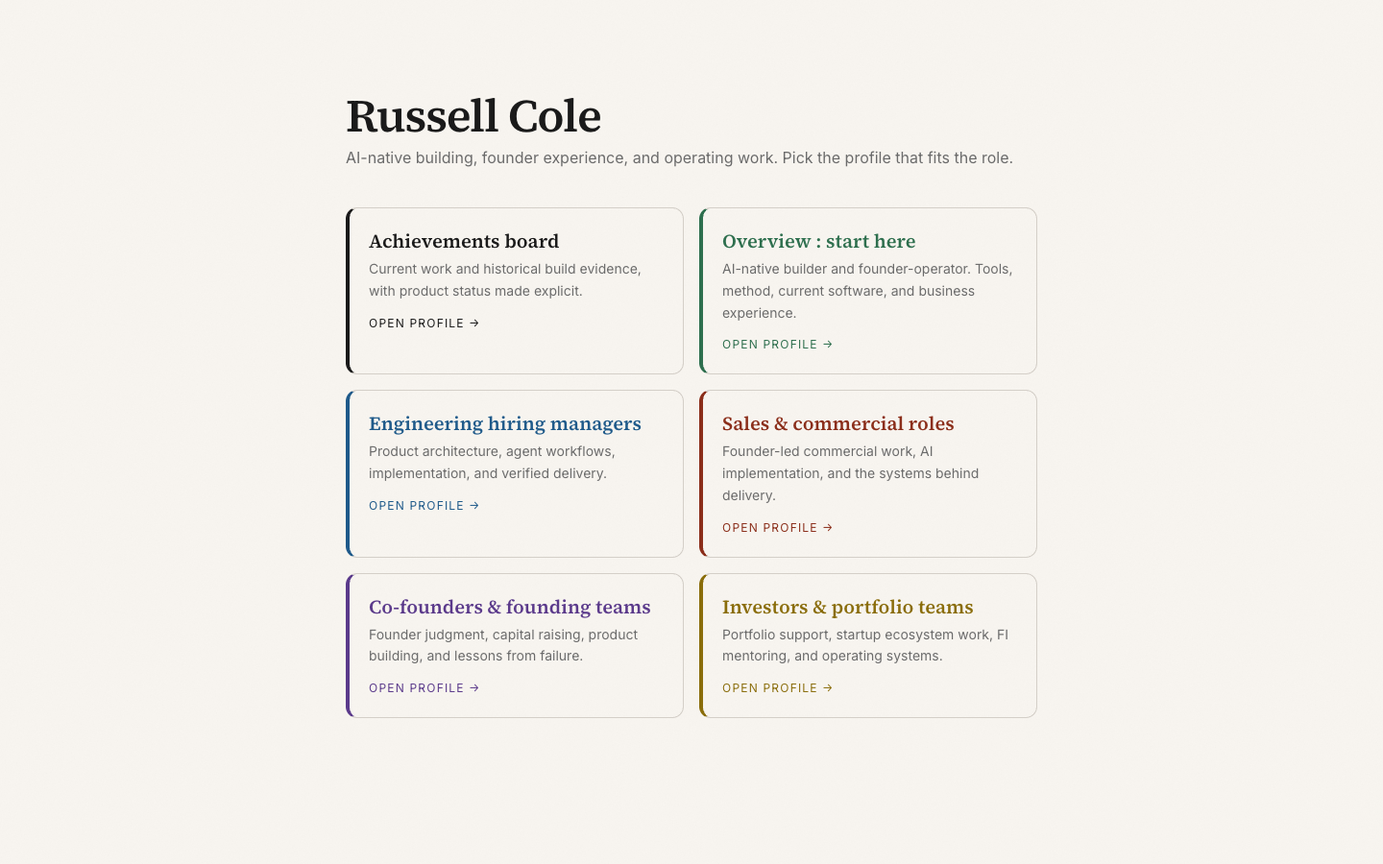
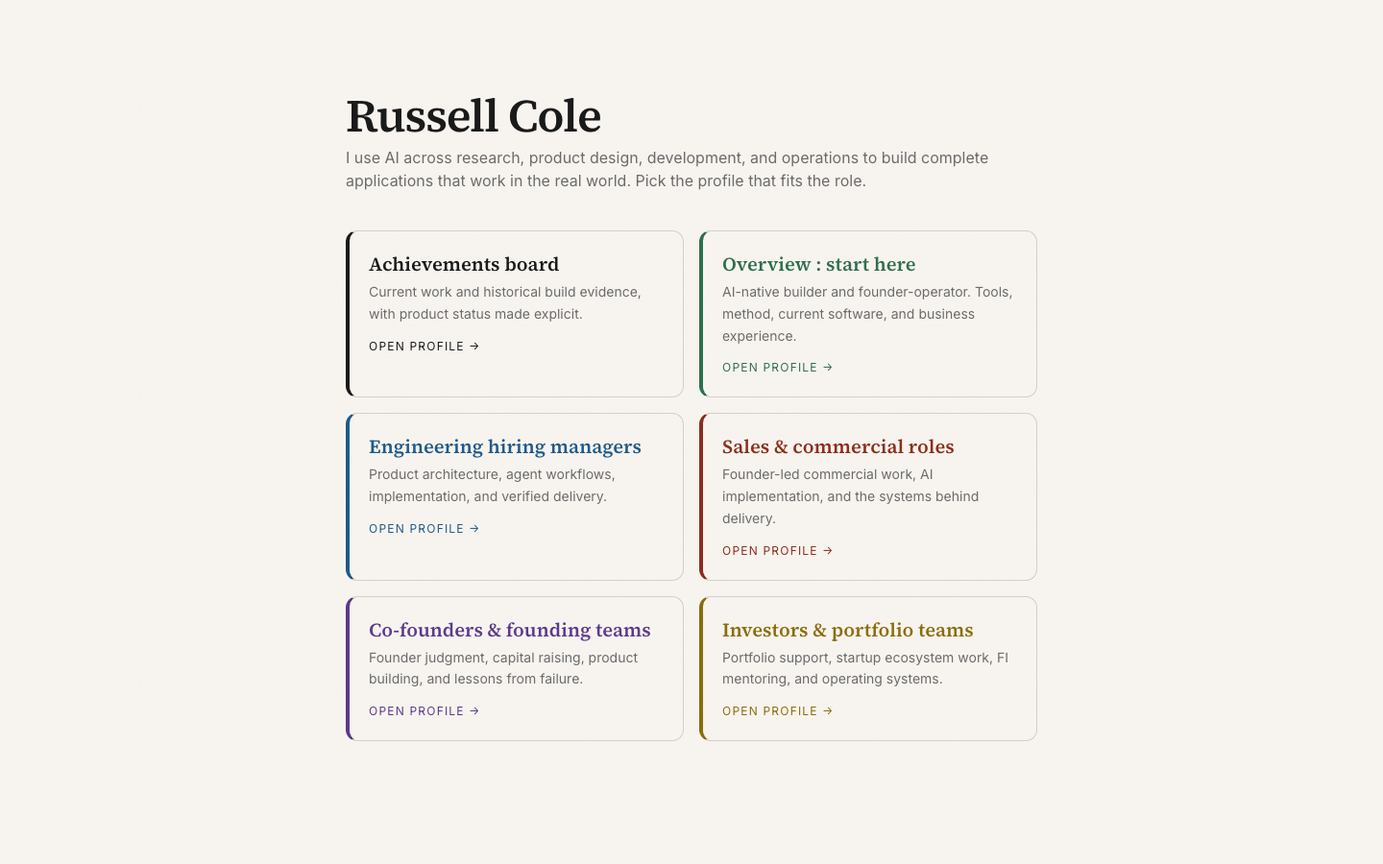
Synchronize AI-building and complete PFK application positioning

diff --git a/index.html b/index.html
@@ -228,7 +228,7 @@
           </li></ul>
       </div>
     </section>
-<section aria-labelledby="ai-practice-heading" class="px-6 py-14 md:py-20 border-t border-light-gray"><div class="max-w-content mx-auto" data-fade><h2 id="ai-practice-heading" class="font-serif text-2xl md:text-3xl font-semibold text-near-black tracking-tight mb-4">How I build with AI</h2><p class="font-sans text-base text-near-black leading-relaxed mb-8">I work at the edge of what is possible with AI, and turn it into working products. My work combines founder judgment, product architecture, hands-on implementation, and verification.</p><article class="mb-6"><h3 class="font-sans font-semibold text-near-black mb-2">The tools, and what I use them for</h3><p class="font-sans text-sm md:text-base text-mid-gray leading-relaxed">Claude Code, Claude Cowork, and OpenAI Codex support research, specifications, code, reviews, and operating work. MCP connects agents to tools and local systems; Signal Engine turns public video into source-backed artifacts. Agent Reach supports public-web research. I have also configured a local DeepSeek Harness for browser workflows and evaluated Jev through Vercel AI Gateway for bounded, typed decisions using synthetic examples.</p></article>
+<section aria-labelledby="ai-practice-heading" class="px-6 py-14 md:py-20 border-t border-light-gray"><div class="max-w-content mx-auto" data-fade><h2 id="ai-practice-heading" class="font-serif text-2xl md:text-3xl font-semibold text-near-black tracking-tight mb-4">How I build with AI</h2><p class="font-sans text-base text-near-black leading-relaxed mb-8">I use AI across research, product design, development, and operations to build complete applications that work in the real world. Without traditional software-engineering training, I have carried products from customer workflow and architecture through implementation, testing, release, and maintenance. I own the decisions and verify the results.</p><article class="mb-6"><h3 class="font-sans font-semibold text-near-black mb-2">The tools, and what I use them for</h3><p class="font-sans text-sm md:text-base text-mid-gray leading-relaxed">Claude Code, Claude Cowork, and OpenAI Codex support research, specifications, code, reviews, and operating work. MCP connects agents to tools and local systems; Signal Engine turns public video into source-backed artifacts. Agent Reach supports public-web research. I have also configured a local DeepSeek Harness for browser workflows and evaluated Jev through Vercel AI Gateway for bounded, typed decisions using synthetic examples.</p></article>
 <article class="mb-6"><h3 class="font-sans font-semibold text-near-black mb-2">From customer workflow to running software</h3><p class="font-sans text-sm md:text-base text-mid-gray leading-relaxed">I start with the real workflow, map the data and product boundaries, and write a scoped specification. I give agents focused context and acceptance criteria, inspect their changes, and test the result. The stack includes TypeScript, React, Next.js, Supabase/Postgres, and Vercel; Airtable and Attio support relationship and operating workflows.</p></article>
 <article class="mb-6"><h3 class="font-sans font-semibold text-near-black mb-2">Proof before release</h3><p class="font-sans text-sm md:text-base text-mid-gray leading-relaxed">I use automated tests, Playwright browser checks, source citations, independent reviews, written cutover plans, backups, and rollback paths where the change requires them. Agents help implement and challenge the work. I own the decisions and verify what users actually receive.</p></article></div></section>
     <!-- ============================================================
@@ -248,7 +248,7 @@
     <section aria-labelledby="recent-builds-heading" class="px-6 py-14 md:py-20 border-t border-light-gray">
       <div class="max-w-content mx-auto"><h2 id="recent-builds-heading" class="font-serif text-2xl md:text-3xl font-semibold text-near-black tracking-tight mb-4" data-fade>What I have been building</h2>
       <p class="font-sans text-base text-mid-gray leading-relaxed mb-8" data-fade>Current work and completed build evidence, with the status of each made explicit. Updated September 2026.</p>
-      <div class="grid grid-cols-1 sm:grid-cols-2 gap-5" data-fade><article class="rounded-xl border border-light-gray border-l-4 border-l-accent p-5"><h3 class="font-sans font-semibold text-near-black text-base mb-2"><a href="https://stonewise.pages.dev">Stonewise: live kidney-stone care companion</a></h3><p class="font-sans text-xs uppercase tracking-wide text-accent mb-3">Live installable web app | native iPhone app planned</p><p class="font-sans text-sm text-mid-gray leading-relaxed">Built Stonewise as an installable web app for organizing kidney-stone care: hydration logging and pacing, meal tracking, lab-result trends, daily plans, and backup and restore. AI-assisted report and meal input asks the user to check extracted information before saving. The web app is live; a native iPhone app remains planned. Designed for personal organization and evidence-aware decision support.</p></article><article class="rounded-xl border border-light-gray border-l-4 border-l-accent p-5"><h3 class="font-sans font-semibold text-near-black text-base mb-2">Fuwari: live grooming software, web and iPhone</h3><p class="font-sans text-xs uppercase tracking-wide text-accent mb-3">Live customer web app | iPhone external beta</p><p class="font-sans text-sm text-mid-gray leading-relaxed">Built and operate Fuwari, the grooming platform originally called GroomBook. Re-platformed the customer web app onto Next.js and Supabase with a verified no-data-loss cutover. Extended it with an AI assistant, scheduling, messaging, financial workflows, and a native iPhone app available to external testers through TestFlight. The customer web app is live; the iPhone app is in external beta.</p></article><article class="rounded-xl border border-light-gray border-l-4 border-l-accent p-5"><h3 class="font-sans font-semibold text-near-black text-base mb-2">ChildCareOS: private operations platform</h3><p class="font-sans text-xs uppercase tracking-wide text-accent mb-3">Private web release | mobile and physical acceptance pending</p><p class="font-sans text-sm text-mid-gray leading-relaxed">Built a private web platform for childcare operations, covering administration, educator and parent workflows, messaging, and access controls. The private web release is deployed. Physical acceptance and the parent mobile release remain separate milestones. Public demonstrations use synthetic data.</p></article><article class="rounded-xl border border-light-gray border-l-4 border-l-accent p-5"><h3 class="font-sans font-semibold text-near-black text-base mb-2">Signal Engine: local video evidence through MCP</h3><p class="font-sans text-xs uppercase tracking-wide text-accent mb-3">Local MCP integration | transcript and provenance artifacts</p><p class="font-sans text-sm text-mid-gray leading-relaxed">Built a local evidence-intake system that extracts audio from public video links, transcribes with whisper.cpp, and retains transcripts, summaries, and source provenance. Integrated it with Claude Code and a Claude Desktop extension through MCP. It is a local operating capability, not a public SaaS.</p></article><article class="rounded-xl border border-light-gray border-l-4 border-l-accent p-5"><h3 class="font-sans font-semibold text-near-black text-base mb-2">Playing for Keeps: live league operations</h3><p class="font-sans text-xs uppercase tracking-wide text-accent mb-3">Live league platform</p><p class="font-sans text-sm text-mid-gray leading-relaxed">Built and operate a fantasy-hockey league platform with authentication, league records, rules, positions, fee tracking, and chat. The system supports a real league. It is a working example of translating a detailed operating process into usable software.</p></article><article class="rounded-xl border border-light-gray border-l-4 border-l-accent p-5"><h3 class="font-sans font-semibold text-near-black text-base mb-2">AgAR: field and greenhouse scouting prototype</h3><p class="font-sans text-xs uppercase tracking-wide text-accent mb-3">Prototype | hosted data backend retired</p><p class="font-sans text-sm text-mid-gray leading-relaxed">Designed and built an agricultural scouting prototype across mobile, web, voice, and workflow dispatch. The current public site explains field and greenhouse use cases with prototype labels. The earlier hosted data backend is retired; this is development evidence, not a claim of a live grower deployment.</p></article><article class="rounded-xl border border-light-gray border-l-4 border-l-accent p-5"><h3 class="font-sans font-semibold text-near-black text-base mb-2">KoyaOS: venture workflow architecture</h3><p class="font-sans text-xs uppercase tracking-wide text-accent mb-3">Agent workflows | evidence and continuity systems</p><p class="font-sans text-sm text-mid-gray leading-relaxed">Designed and built venture-scoped context, research and source records, decision logs, agent workflows, review gates, and handoffs. The current studio runs through repositories and maintained evidence. The earlier hosted Mission Control dashboard is retired and retained as historical source, not the current operating authority.</p></article></div></div>
+      <div class="grid grid-cols-1 sm:grid-cols-2 gap-5" data-fade><article class="rounded-xl border border-light-gray border-l-4 border-l-accent p-5"><h3 class="font-sans font-semibold text-near-black text-base mb-2"><a href="https://stonewise.pages.dev">Stonewise: live kidney-stone care companion</a></h3><p class="font-sans text-xs uppercase tracking-wide text-accent mb-3">Live installable web app | native iPhone app planned</p><p class="font-sans text-sm text-mid-gray leading-relaxed">Built Stonewise as an installable web app for organizing kidney-stone care: hydration logging and pacing, meal tracking, lab-result trends, daily plans, and backup and restore. AI-assisted report and meal input asks the user to check extracted information before saving. The web app is live; a native iPhone app remains planned. Designed for personal organization and evidence-aware decision support.</p></article><article class="rounded-xl border border-light-gray border-l-4 border-l-accent p-5"><h3 class="font-sans font-semibold text-near-black text-base mb-2">Fuwari: live grooming software, web and iPhone</h3><p class="font-sans text-xs uppercase tracking-wide text-accent mb-3">Live customer web app | iPhone external beta</p><p class="font-sans text-sm text-mid-gray leading-relaxed">Built and operate Fuwari, the grooming platform originally called GroomBook. Re-platformed the customer web app onto Next.js and Supabase with a verified no-data-loss cutover. Extended it with an AI assistant, scheduling, messaging, financial workflows, and a native iPhone app available to external testers through TestFlight. The customer web app is live; the iPhone app is in external beta.</p></article><article class="rounded-xl border border-light-gray border-l-4 border-l-accent p-5"><h3 class="font-sans font-semibold text-near-black text-base mb-2">ChildCareOS: private operations platform</h3><p class="font-sans text-xs uppercase tracking-wide text-accent mb-3">Private web release | mobile and physical acceptance pending</p><p class="font-sans text-sm text-mid-gray leading-relaxed">Built a private web platform for childcare operations, covering administration, educator and parent workflows, messaging, and access controls. The private web release is deployed. Physical acceptance and the parent mobile release remain separate milestones. Public demonstrations use synthetic data.</p></article><article class="rounded-xl border border-light-gray border-l-4 border-l-accent p-5"><h3 class="font-sans font-semibold text-near-black text-base mb-2">Signal Engine: local video evidence through MCP</h3><p class="font-sans text-xs uppercase tracking-wide text-accent mb-3">Local MCP integration | transcript and provenance artifacts</p><p class="font-sans text-sm text-mid-gray leading-relaxed">Built a local evidence-intake system that extracts audio from public video links, transcribes with whisper.cpp, and retains transcripts, summaries, and source provenance. Integrated it with Claude Code and a Claude Desktop extension through MCP. It is a local operating capability, not a public SaaS.</p></article><article class="rounded-xl border border-light-gray border-l-4 border-l-accent p-5"><h3 class="font-sans font-semibold text-near-black text-base mb-2">Playing for Keeps: live fantasy-hockey application</h3><p class="font-sans text-xs uppercase tracking-wide text-accent mb-3">Live league platform</p><p class="font-sans text-sm text-mid-gray leading-relaxed">Built and operate a complete fantasy-hockey league application with custom roster and contract rules, salary-cap accounting, fee tracking, authentication, and chat. Built using AI throughout development and used by a real league. I own the architecture, implementation, testing, release, and maintenance.</p></article><article class="rounded-xl border border-light-gray border-l-4 border-l-accent p-5"><h3 class="font-sans font-semibold text-near-black text-base mb-2">AgAR: field and greenhouse scouting prototype</h3><p class="font-sans text-xs uppercase tracking-wide text-accent mb-3">Prototype | hosted data backend retired</p><p class="font-sans text-sm text-mid-gray leading-relaxed">Designed and built an agricultural scouting prototype across mobile, web, voice, and workflow dispatch. The current public site explains field and greenhouse use cases with prototype labels. The earlier hosted data backend is retired; this is development evidence, not a claim of a live grower deployment.</p></article><article class="rounded-xl border border-light-gray border-l-4 border-l-accent p-5"><h3 class="font-sans font-semibold text-near-black text-base mb-2">KoyaOS: venture workflow architecture</h3><p class="font-sans text-xs uppercase tracking-wide text-accent mb-3">Agent workflows | evidence and continuity systems</p><p class="font-sans text-sm text-mid-gray leading-relaxed">Designed and built venture-scoped context, research and source records, decision logs, agent workflows, review gates, and handoffs. The current studio runs through repositories and maintained evidence. The earlier hosted Mission Control dashboard is retired and retained as historical source, not the current operating authority.</p></article></div></div>
     </section>
 
     <section aria-labelledby="open-heading" class="px-6 py-14 md:py-20 border-t border-light-gray">

diff --git a/dev/index.html b/dev/index.html
@@ -196,7 +196,7 @@
       </div>
     </section>
 
-    <section aria-labelledby="ai-practice-heading" class="px-6 py-14 md:py-20 border-t border-light-gray"><div class="max-w-content mx-auto" data-fade><h2 id="ai-practice-heading" class="font-serif text-2xl md:text-3xl font-semibold text-near-black tracking-tight mb-4">How I build with AI</h2><p class="font-sans text-base text-near-black leading-relaxed mb-8">I work at the edge of what is possible with AI, and turn it into working products. My work combines founder judgment, product architecture, hands-on implementation, and verification.</p><article class="mb-6"><h3 class="font-sans font-semibold text-near-black mb-2">The tools, and what I use them for</h3><p class="font-sans text-sm md:text-base text-mid-gray leading-relaxed">Claude Code, Claude Cowork, and OpenAI Codex support research, specifications, code, reviews, and operating work. MCP connects agents to tools and local systems; Signal Engine turns public video into source-backed artifacts. Agent Reach supports public-web research. I have also configured a local DeepSeek Harness for browser workflows and evaluated Jev through Vercel AI Gateway for bounded, typed decisions using synthetic examples.</p></article>
+    <section aria-labelledby="ai-practice-heading" class="px-6 py-14 md:py-20 border-t border-light-gray"><div class="max-w-content mx-auto" data-fade><h2 id="ai-practice-heading" class="font-serif text-2xl md:text-3xl font-semibold text-near-black tracking-tight mb-4">How I build with AI</h2><p class="font-sans text-base text-near-black leading-relaxed mb-8">I use AI across research, product design, development, and operations to build complete applications that work in the real world. Without traditional software-engineering training, I have carried products from customer workflow and architecture through implementation, testing, release, and maintenance. I own the decisions and verify the results.</p><article class="mb-6"><h3 class="font-sans font-semibold text-near-black mb-2">The tools, and what I use them for</h3><p class="font-sans text-sm md:text-base text-mid-gray leading-relaxed">Claude Code, Claude Cowork, and OpenAI Codex support research, specifications, code, reviews, and operating work. MCP connects agents to tools and local systems; Signal Engine turns public video into source-backed artifacts. Agent Reach supports public-web research. I have also configured a local DeepSeek Harness for browser workflows and evaluated Jev through Vercel AI Gateway for bounded, typed decisions using synthetic examples.</p></article>
 <article class="mb-6"><h3 class="font-sans font-semibold text-near-black mb-2">From customer workflow to running software</h3><p class="font-sans text-sm md:text-base text-mid-gray leading-relaxed">I start with the real workflow, map the data and product boundaries, and write a scoped specification. I give agents focused context and acceptance criteria, inspect their changes, and test the result. The stack includes TypeScript, React, Next.js, Supabase/Postgres, and Vercel; Airtable and Attio support relationship and operating workflows.</p></article>
 <article class="mb-6"><h3 class="font-sans font-semibold text-near-black mb-2">Proof before release</h3><p class="font-sans text-sm md:text-base text-mid-gray leading-relaxed">I use automated tests, Playwright browser checks, source citations, independent reviews, written cutover plans, backups, and rollback paths where the change requires them. Agents help implement and challenge the work. I own the decisions and verify what users actually receive.</p></article></div></section>
 
@@ -296,7 +296,7 @@
             <button class="w-full text-left px-5 pt-5 pb-4 cursor-pointer group" aria-expanded="false" id="work-btn-4" aria-controls="work-body-4" type="button">
               <div class="flex items-start justify-between gap-3">
                 <div class="flex-1 min-w-0">
-                  <h3 class="font-sans font-semibold text-near-black text-base mb-1 group-hover:text-accent transition-colors">Playing for Keeps: live league operations</h3>
+                  <h3 class="font-sans font-semibold text-near-black text-base mb-1 group-hover:text-accent transition-colors">Playing for Keeps: live fantasy-hockey application</h3>
                   <p class="font-sans text-sm text-mid-gray leading-relaxed">Live league platform</p>
                 </div>
                 <svg class="card-chevron flex-shrink-0 mt-0.5 text-light-gray group-hover:text-accent" xmlns="http://www.w3.org/2000/svg" width="16" height="16" viewBox="0 0 24 24" fill="none" stroke="currentColor" stroke-width="2" stroke-linecap="round" stroke-linejoin="round" aria-hidden="true"><polyline points="6 9 12 15 18 9"></polyline></svg>
@@ -305,7 +305,7 @@
             <div id="work-body-4" class="card-body grid" style="grid-template-rows: 0fr;" role="region" aria-labelledby="work-btn-4">
               <div class="overflow-hidden">
                 <div class="px-5 pb-5">
-                  <p class="font-sans text-sm text-near-black leading-relaxed">Built and operate a fantasy-hockey league platform with authentication, league records, rules, positions, fee tracking, and chat. The system supports a real league. It is a working example of translating a detailed operating process into usable software.</p>
+                  <p class="font-sans text-sm text-near-black leading-relaxed">Built and operate a complete fantasy-hockey league application with custom roster and contract rules, salary-cap accounting, fee tracking, authentication, and chat. Built using AI throughout development and used by a real league. I own the architecture, implementation, testing, release, and maintenance.</p>
                 </div>
               </div>
             </div>

diff --git a/founders/index.html b/founders/index.html
@@ -196,7 +196,7 @@
       </div>
     </section>
 
-    <section aria-labelledby="ai-practice-heading" class="px-6 py-14 md:py-20 border-t border-light-gray"><div class="max-w-content mx-auto" data-fade><h2 id="ai-practice-heading" class="font-serif text-2xl md:text-3xl font-semibold text-near-black tracking-tight mb-4">How I build with AI</h2><p class="font-sans text-base text-near-black leading-relaxed mb-8">I work at the edge of what is possible with AI, and turn it into working products. My work combines founder judgment, product architecture, hands-on implementation, and verification.</p><article class="mb-6"><h3 class="font-sans font-semibold text-near-black mb-2">The tools, and what I use them for</h3><p class="font-sans text-sm md:text-base text-mid-gray leading-relaxed">Claude Code, Claude Cowork, and OpenAI Codex support research, specifications, code, reviews, and operating work. MCP connects agents to tools and local systems; Signal Engine turns public video into source-backed artifacts. Agent Reach supports public-web research. I have also configured a local DeepSeek Harness for browser workflows and evaluated Jev through Vercel AI Gateway for bounded, typed decisions using synthetic examples.</p></article>
+    <section aria-labelledby="ai-practice-heading" class="px-6 py-14 md:py-20 border-t border-light-gray"><div class="max-w-content mx-auto" data-fade><h2 id="ai-practice-heading" class="font-serif text-2xl md:text-3xl font-semibold text-near-black tracking-tight mb-4">How I build with AI</h2><p class="font-sans text-base text-near-black leading-relaxed mb-8">I use AI across research, product design, development, and operations to build complete applications that work in the real world. Without traditional software-engineering training, I have carried products from customer workflow and architecture through implementation, testing, release, and maintenance. I own the decisions and verify the results.</p><article class="mb-6"><h3 class="font-sans font-semibold text-near-black mb-2">The tools, and what I use them for</h3><p class="font-sans text-sm md:text-base text-mid-gray leading-relaxed">Claude Code, Claude Cowork, and OpenAI Codex support research, specifications, code, reviews, and operating work. MCP connects agents to tools and local systems; Signal Engine turns public video into source-backed artifacts. Agent Reach supports public-web research. I have also configured a local DeepSeek Harness for browser workflows and evaluated Jev through Vercel AI Gateway for bounded, typed decisions using synthetic examples.</p></article>
 <article class="mb-6"><h3 class="font-sans font-semibold text-near-black mb-2">From customer workflow to running software</h3><p class="font-sans text-sm md:text-base text-mid-gray leading-relaxed">I start with the real workflow, map the data and product boundaries, and write a scoped specification. I give agents focused context and acceptance criteria, inspect their changes, and test the result. The stack includes TypeScript, React, Next.js, Supabase/Postgres, and Vercel; Airtable and Attio support relationship and operating workflows.</p></article>
 <article class="mb-6"><h3 class="font-sans font-semibold text-near-black mb-2">Proof before release</h3><p class="font-sans text-sm md:text-base text-mid-gray leading-relaxed">I use automated tests, Playwright browser checks, source citations, independent reviews, written cutover plans, backups, and rollback paths where the change requires them. Agents help implement and challenge the work. I own the decisions and verify what users actually receive.</p></article></div></section>
 
@@ -277,7 +277,7 @@
             <button class="w-full text-left px-5 pt-5 pb-4 cursor-pointer group" aria-expanded="false" id="work-btn-3" aria-controls="work-body-3" type="button">
               <div class="flex items-start justify-between gap-3">
                 <div class="flex-1 min-w-0">
-                  <h3 class="font-sans font-semibold text-near-black text-base mb-1 group-hover:text-accent transition-colors">Playing for Keeps: live league operations</h3>
+                  <h3 class="font-sans font-semibold text-near-black text-base mb-1 group-hover:text-accent transition-colors">Playing for Keeps: live fantasy-hockey application</h3>
                   <p class="font-sans text-sm text-mid-gray leading-relaxed">Live league platform</p>
                 </div>
                 <svg class="card-chevron flex-shrink-0 mt-0.5 text-light-gray group-hover:text-accent" xmlns="http://www.w3.org/2000/svg" width="16" height="16" viewBox="0 0 24 24" fill="none" stroke="currentColor" stroke-width="2" stroke-linecap="round" stroke-linejoin="round" aria-hidden="true"><polyline points="6 9 12 15 18 9"></polyline></svg>
@@ -286,7 +286,7 @@
             <div id="work-body-3" class="card-body grid" style="grid-template-rows: 0fr;" role="region" aria-labelledby="work-btn-3">
               <div class="overflow-hidden">
                 <div class="px-5 pb-5">
-                  <p class="font-sans text-sm text-near-black leading-relaxed">Built and operate a fantasy-hockey league platform with authentication, league records, rules, positions, fee tracking, and chat. The system supports a real league. It is a working example of translating a detailed operating process into usable software.</p>
+                  <p class="font-sans text-sm text-near-black leading-relaxed">Built and operate a complete fantasy-hockey league application with custom roster and contract rules, salary-cap accounting, fee tracking, authentication, and chat. Built using AI throughout development and used by a real league. I own the architecture, implementation, testing, release, and maintenance.</p>
                 </div>
               </div>
             </div>

diff --git a/investors/index.html b/investors/index.html
@@ -196,7 +196,7 @@
       </div>
     </section>
 
-    <section aria-labelledby="ai-practice-heading" class="px-6 py-14 md:py-20 border-t border-light-gray"><div class="max-w-content mx-auto" data-fade><h2 id="ai-practice-heading" class="font-serif text-2xl md:text-3xl font-semibold text-near-black tracking-tight mb-4">How I build with AI</h2><p class="font-sans text-base text-near-black leading-relaxed mb-8">I work at the edge of what is possible with AI, and turn it into working products. My work combines founder judgment, product architecture, hands-on implementation, and verification.</p><article class="mb-6"><h3 class="font-sans font-semibold text-near-black mb-2">The tools, and what I use them for</h3><p class="font-sans text-sm md:text-base text-mid-gray leading-relaxed">Claude Code, Claude Cowork, and OpenAI Codex support research, specifications, code, reviews, and operating work. MCP connects agents to tools and local systems; Signal Engine turns public video into source-backed artifacts. Agent Reach supports public-web research. I have also configured a local DeepSeek Harness for browser workflows and evaluated Jev through Vercel AI Gateway for bounded, typed decisions using synthetic examples.</p></article>
+    <section aria-labelledby="ai-practice-heading" class="px-6 py-14 md:py-20 border-t border-light-gray"><div class="max-w-content mx-auto" data-fade><h2 id="ai-practice-heading" class="font-serif text-2xl md:text-3xl font-semibold text-near-black tracking-tight mb-4">How I build with AI</h2><p class="font-sans text-base text-near-black leading-relaxed mb-8">I use AI across research, product design, development, and operations to build complete applications that work in the real world. Without traditional software-engineering training, I have carried products from customer workflow and architecture through implementation, testing, release, and maintenance. I own the decisions and verify the results.</p><article class="mb-6"><h3 class="font-sans font-semibold text-near-black mb-2">The tools, and what I use them for</h3><p class="font-sans text-sm md:text-base text-mid-gray leading-relaxed">Claude Code, Claude Cowork, and OpenAI Codex support research, specifications, code, reviews, and operating work. MCP connects agents to tools and local systems; Signal Engine turns public video into source-backed artifacts. Agent Reach supports public-web research. I have also configured a local DeepSeek Harness for browser workflows and evaluated Jev through Vercel AI Gateway for bounded, typed decisions using synthetic examples.</p></article>
 <article class="mb-6"><h3 class="font-sans font-semibold text-near-black mb-2">From customer workflow to running software</h3><p class="font-sans text-sm md:text-base text-mid-gray leading-relaxed">I start with the real workflow, map the data and product boundaries, and write a scoped specification. I give agents focused context and acceptance criteria, inspect their changes, and test the result. The stack includes TypeScript, React, Next.js, Supabase/Postgres, and Vercel; Airtable and Attio support relationship and operating workflows.</p></article>
 <article class="mb-6"><h3 class="font-sans font-semibold text-near-black mb-2">Proof before release</h3><p class="font-sans text-sm md:text-base text-mid-gray leading-relaxed">I use automated tests, Playwright browser checks, source citations, independent reviews, written cutover plans, backups, and rollback paths where the change requires them. Agents help implement and challenge the work. I own the decisions and verify what users actually receive.</p></article></div></section>
 
@@ -353,7 +353,7 @@
             <button class="w-full text-left px-5 pt-5 pb-4 cursor-pointer group" aria-expanded="false" id="work-btn-7" aria-controls="work-body-7" type="button">
               <div class="flex items-start justify-between gap-3">
                 <div class="flex-1 min-w-0">
-                  <h3 class="font-sans font-semibold text-near-black text-base mb-1 group-hover:text-accent transition-colors">Playing for Keeps: live league operations</h3>
+                  <h3 class="font-sans font-semibold text-near-black text-base mb-1 group-hover:text-accent transition-colors">Playing for Keeps: live fantasy-hockey application</h3>
                   <p class="font-sans text-sm text-mid-gray leading-relaxed">Live league platform</p>
                 </div>
                 <svg class="card-chevron flex-shrink-0 mt-0.5 text-light-gray group-hover:text-accent" xmlns="http://www.w3.org/2000/svg" width="16" height="16" viewBox="0 0 24 24" fill="none" stroke="currentColor" stroke-width="2" stroke-linecap="round" stroke-linejoin="round" aria-hidden="true"><polyline points="6 9 12 15 18 9"></polyline></svg>
@@ -362,7 +362,7 @@
             <div id="work-body-7" class="card-body grid" style="grid-template-rows: 0fr;" role="region" aria-labelledby="work-btn-7">
               <div class="overflow-hidden">
                 <div class="px-5 pb-5">
-                  <p class="font-sans text-sm text-near-black leading-relaxed">Built and operate a fantasy-hockey league platform with authentication, league records, rules, positions, fee tracking, and chat. The system supports a real league. It is a working example of translating a detailed operating process into usable software.</p>
+                  <p class="font-sans text-sm text-near-black leading-relaxed">Built and operate a complete fantasy-hockey league application with custom roster and contract rules, salary-cap accounting, fee tracking, authentication, and chat. Built using AI throughout development and used by a real league. I own the architecture, implementation, testing, release, and maintenance.</p>
                 </div>
               </div>
             </div>

diff --git a/sales/index.html b/sales/index.html
@@ -196,7 +196,7 @@
       </div>
     </section>
 
-    <section aria-labelledby="ai-practice-heading" class="px-6 py-14 md:py-20 border-t border-light-gray"><div class="max-w-content mx-auto" data-fade><h2 id="ai-practice-heading" class="font-serif text-2xl md:text-3xl font-semibold text-near-black tracking-tight mb-4">How I build with AI</h2><p class="font-sans text-base text-near-black leading-relaxed mb-8">I work at the edge of what is possible with AI, and turn it into working products. My work combines founder judgment, product architecture, hands-on implementation, and verification.</p><article class="mb-6"><h3 class="font-sans font-semibold text-near-black mb-2">The tools, and what I use them for</h3><p class="font-sans text-sm md:text-base text-mid-gray leading-relaxed">Claude Code, Claude Cowork, and OpenAI Codex support research, specifications, code, reviews, and operating work. MCP connects agents to tools and local systems; Signal Engine turns public video into source-backed artifacts. Agent Reach supports public-web research. I have also configured a local DeepSeek Harness for browser workflows and evaluated Jev through Vercel AI Gateway for bounded, typed decisions using synthetic examples.</p></article>
+    <section aria-labelledby="ai-practice-heading" class="px-6 py-14 md:py-20 border-t border-light-gray"><div class="max-w-content mx-auto" data-fade><h2 id="ai-practice-heading" class="font-serif text-2xl md:text-3xl font-semibold text-near-black tracking-tight mb-4">How I build with AI</h2><p class="font-sans text-base text-near-black leading-relaxed mb-8">I use AI across research, product design, development, and operations to build complete applications that work in the real world. Without traditional software-engineering training, I have carried products from customer workflow and architecture through implementation, testing, release, and maintenance. I own the decisions and verify the results.</p><article class="mb-6"><h3 class="font-sans font-semibold text-near-black mb-2">The tools, and what I use them for</h3><p class="font-sans text-sm md:text-base text-mid-gray leading-relaxed">Claude Code, Claude Cowork, and OpenAI Codex support research, specifications, code, reviews, and operating work. MCP connects agents to tools and local systems; Signal Engine turns public video into source-backed artifacts. Agent Reach supports public-web research. I have also configured a local DeepSeek Harness for browser workflows and evaluated Jev through Vercel AI Gateway for bounded, typed decisions using synthetic examples.</p></article>
 <article class="mb-6"><h3 class="font-sans font-semibold text-near-black mb-2">From customer workflow to running software</h3><p class="font-sans text-sm md:text-base text-mid-gray leading-relaxed">I start with the real workflow, map the data and product boundaries, and write a scoped specification. I give agents focused context and acceptance criteria, inspect their changes, and test the result. The stack includes TypeScript, React, Next.js, Supabase/Postgres, and Vercel; Airtable and Attio support relationship and operating workflows.</p></article>
 <article class="mb-6"><h3 class="font-sans font-semibold text-near-black mb-2">Proof before release</h3><p class="font-sans text-sm md:text-base text-mid-gray leading-relaxed">I use automated tests, Playwright browser checks, source citations, independent reviews, written cutover plans, backups, and rollback paths where the change requires them. Agents help implement and challenge the work. I own the decisions and verify what users actually receive.</p></article></div></section>
 

diff --git a/achievements/index.html b/achievements/index.html
@@ -155,8 +155,8 @@
           <p class="font-sans text-xs uppercase tracking-widest text-mid-gray mt-3">Local MCP integration | transcript and provenance artifacts</p>
         </article>
         <article class="border-t border-light-gray pt-6" data-fade>
-          <h2 class="font-serif text-xl md:text-2xl font-semibold text-near-black leading-snug mb-2">Playing for Keeps: live league operations</h2>
-          <p class="font-sans text-sm md:text-base text-mid-gray leading-relaxed mb-3">Built and operate a fantasy-hockey league platform with authentication, league records, rules, positions, fee tracking, and chat. The system supports a real league. It is a working example of translating a detailed operating process into usable software.</p>
+          <h2 class="font-serif text-xl md:text-2xl font-semibold text-near-black leading-snug mb-2">Playing for Keeps: live fantasy-hockey application</h2>
+          <p class="font-sans text-sm md:text-base text-mid-gray leading-relaxed mb-3">Built and operate a complete fantasy-hockey league application with custom roster and contract rules, salary-cap accounting, fee tracking, authentication, and chat. Built using AI throughout development and used by a real league. I own the architecture, implementation, testing, release, and maintenance.</p>
           <div class="flex flex-wrap gap-2"><span class="inline-block font-sans text-xs font-medium px-2.5 py-1 rounded-full" style="color:#2E6F4E;background:#2E6F4E14;border:1px solid #2E6F4E33">General</span> <span class="inline-block font-sans text-xs font-medium px-2.5 py-1 rounded-full" style="color:#1F5A8A;background:#1F5A8A14;border:1px solid #1F5A8A33">Engineering</span> <span class="inline-block font-sans text-xs font-medium px-2.5 py-1 rounded-full" style="color:#5B3A8B;background:#5B3A8B14;border:1px solid #5B3A8B33">Founders</span> <span class="inline-block font-sans text-xs font-medium px-2.5 py-1 rounded-full" style="color:#8A6D0B;background:#8A6D0B14;border:1px solid #8A6D0B33">Investors</span></div>
           <p class="font-sans text-xs uppercase tracking-widest text-mid-gray mt-3">Live league platform</p>
         </article>

diff --git a/hub/index.html b/hub/index.html
@@ -127,7 +127,7 @@
   <main class="px-6 py-16 md:py-24">
     <div class="max-w-content mx-auto">
       <h1 class="font-serif text-4xl md:text-5xl font-semibold text-near-black tracking-tight mb-2">Russell Cole</h1>
-      <p class="font-sans text-base text-mid-gray mb-10">AI-native building, founder experience, and operating work. Pick the profile that fits the role.</p>
+      <p class="font-sans text-base text-mid-gray mb-10">I use AI across research, product design, development, and operations to build complete applications that work in the real world. Pick the profile that fits the role.</p>
       <div class="grid grid-cols-1 sm:grid-cols-2 gap-4">
         <a href="../achievements/" class="block rounded-xl border border-light-gray border-l-4 pl-5 pr-4 py-5 hover:shadow-sm transition-shadow" style="border-left-color:#1A1A1A">
           <h2 class="font-serif text-xl font-semibold text-near-black mb-1" style="color:#1A1A1A">Achievements board</h2>

diff --git a/_reports/2026-09-30-application-site-sync.md b/_reports/2026-09-30-application-site-sync.md
@@ -1,0 +1,16 @@
+# Application and public profile consistency
+
+User requested confirmation all current positioning is on site/profile/resume.
+Synced shared AI practice on root and all four audience profiles, hub summary,
+and PFK canonical achievement: complete fantasy-hockey application with custom
+roster/contract rules, salary caps, fees, auth and chat, used by a real league.
+Source: PFK current rulebook and handoff, public app-level functions only.
+AI throughout workflow and no traditional developer training: candidate-confirmed.
+No private player strategy, enterprise-security guarantee or Yahoo clone claim.
+Standing public-content authority applies; Deep independent review required.
+Previous favicon/canonical/social metadata and graphic unchanged.
+Independent reviewer approved: 0 Critical / 0 Important / 0 Minor.
+Generated output reproducible; all seven routes passed local desktop/mobile,
+card interactions, links/resources and metadata with zero page errors.
+Metadata/share image unchanged from the earlier reviewed live preview.
+Live-content readback pending deployment.

diff --git a/HANDOFF.md b/HANDOFF.md
@@ -16,6 +16,9 @@ Ontario-based and available full-time. Private financial pressure and travel pla
 Root, engineering, sales, founder, investor/portfolio, achievements and hub pages refreshed.
 Stonewise added as a live installable care-companion web app, September 30.
 Native iPhone release remains planned; no clinical validation or personal health claims.
+AI-building positioning now spans research, design, development and operations,
+with ownership through maintenance and no traditional software-engineering training.
+PFK copy explains custom contracts, rosters, salary caps, fees, authentication and chat.
 AI practice names Claude Code, Cowork, Codex, MCP, local transcription, browser workflows,
 Agent Reach and the bounded Jev pilot, with testing and release accountability.
 Current production, private releases, external beta, local tooling, prototypes and retired
